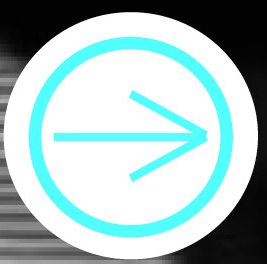
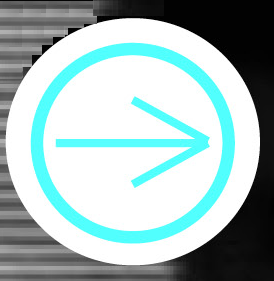
change of welcome page

diff --git a/flaskr/templates/layout.html b/flaskr/templates/layout.html
@@ -4,6 +4,10 @@
 	<title>RodBot</title>
 	<meta charset="utf-8">
 	<meta name="viewport" content="width=device-width, initial-scale=1">
+    <link rel="stylesheet" type="text/css" href="{{ url_for('static', filename='intro.css') }}">
+    <!--<script src="{{ url_for('static', filename='jquery.backgroundpos.min.js') }}"></script>
+    <script src="http://code.jquery.com/jquery-1.11.0.min.js"></script>
+    <script src="http://code.jquery.com/jquery-1.12.4.min.js"></script>-->
 	<link rel="stylesheet" href="http://maxcdn.bootstrapcdn.com/bootstrap/3.3.6/css/bootstrap.min.css">
 	<link rel=stylesheet type=text/css href="{{ url_for('static', filename='style.css') }}">
 	<link rel=stylesheet type=text/css href="{{ url_for('static', filename='reset.css') }}">
@@ -14,7 +18,6 @@
     <script src="{{ url_for('static', filename='typed.js') }}"></script>
     <script>
     $(function(){
-
         $("#typed").typed({
 
             stringsElement: $('#typed-strings'),
@@ -38,6 +41,15 @@
 
     function foo(){ console.log("Callback"); }
 
+    </script>
+     <script>
+    $(document).ready(function(){
+    	$(".user").show(1600,function(){
+    		$(".guy").show(1600,function(){
+    			$(".ready,.button").show(1600);
+    		});
+    	});
+    });
     </script>
 
 </head>

diff --git a/flaskr/static/intro.css b/flaskr/static/intro.css
@@ -1,0 +1,72 @@
+.back{
+	background-image: url("INTRO1.jpg");
+	width:350px;
+	height:620px;
+	background-size: 100% 98%;
+	margin-right: auto;
+	margin-left: auto;
+	margin-top:0px;
+	position:relative;
+}
+.type{
+	width:185px;
+	height:50px;
+	position:absolute;
+	right:42px;
+	top:56px;
+}
+#type{
+	font-family: Chalkduster;
+	font-size: 20px;
+	font-style: italic;
+}
+
+.user{
+	width:170px;
+	height:33px;
+	background-color:blue;
+	position: absolute;
+	right:22px;
+	top:200px;
+	color:white;
+	padding: 10px;
+	display: none;
+}
+
+.guy{
+	width:170px;
+	height:210px;
+	background-color:white;
+	position: absolute;
+	font-family: noteworthy;
+	right:120px;
+	top:257px;
+	padding: 10px;
+	display: none;
+}
+
+.ready{
+	width:170px;
+	height:72px;
+	background-color:white;
+	position: absolute;
+	font-family: noteworthy;
+	right:120px;
+	top:481px;
+	padding: 10px;
+	display: none;
+}
+
+.button{
+	width:55px;
+	height:55px;
+	background-image:url(/static/background1.jpeg);
+	position:absolute;
+	right:24px;
+	top:490px;
+	display: none;
+}
+
+div{
+	display: block;
+}

diff --git a/flaskr/templates/welcome.html b/flaskr/templates/welcome.html
@@ -1,8 +1,17 @@
 <!DOCTYPE html>
 {% extends "layout.html" %}
 {% block body %}
-<div class="welcome">
+<!--<div class="welcome">
     <div class="imgButton"><p> <a href="/home"> <img src="static/imageButton.png"> </a> </p></div>
+</div>-->
+<div class="back">
+    <div class="type"><p id="type">You've just crossed over to RodBot....</p></div>
+    <div class="user">What is RodBot?</div>
+    <div class="guy">I'm a story narrator and a fun guy who loves to spread joy and information through news articles. You can ask me to "tell you something funny" and I'll provide you with some funny news.</div>
+    <div class="ready">Click when you're ready to talk to me some more!!</div>
+    <div class="button">
+        <div class="imgButton"><p> <a href="/home"> <img src="static/imageButton.png"> </a> </p></div>
+    </div>
 </div>
 
 

diff --git a/flaskr/static/style.css b/flaskr/static/style.css
@@ -176,22 +176,22 @@ width:50px;
 }
 .imgButton{
   margin:auto auto;
-  margin-right:20px;
+  /*margin-right:20px;*/
   /*margin-top:120px;*/
   /*background:blue;
   position:relative;
   min-height:25px;
   margin-top:35px;
   padding:10px;*/
-  min-width:55px;
-  width:55px;
-  height:55px;
+  /*min-width:55px;*/
+  /*width:54px;
+  height:281px;*/
 }
 .imgButton img{
-  margin-top:350px;
-  min-width:55px;
-  width:55px;
-  height:55px;
+  /*margin-top:350px;*/
+  /*min-width:55px;*/
+  width:54px;
+  height:56px;
 }
 
 .container {

diff --git a/flaskr/templates/index.html b/flaskr/templates/index.html
@@ -16,7 +16,6 @@
 								eg. Type "Tell me something happy", and I will show you a happy story
 							</p>
           </div>
-
 		<span id="typed" ></span>
       </div>
     </li>

diff --git a/flaskr/flaskr.py b/flaskr/flaskr.py
@@ -36,7 +36,7 @@ status =  True
 with open('data.txt', 'r') as myfile:
     lexiconDict = myfile.read().replace('\n', '')
 lexiconDict = ast.literal_eval(lexiconDict)
-storyBoard = {'sadness': ['Hope you are not having a bad day. :(.  Coming with what you want.', 'Oh no there are so many heartbreaking stories...', "Here's one. I have my shoulder for you if you need it."], 'anticipation': ['I have something tantalizing for you!'], 'disgust': ['As you wish.', "I can't look at this one anymore...", "You're gonna hate me for this....But that's exactly what you want today right?"], 'positive': ["Got you! I'm sure I have something <>", "This one's pretty nice!", "Here's something <>. I'm sure you'll like it"], 'anger': ['Alright, now this may or may not be pretty upsetting. I am bad at finding negative stories.'], 'joy': ["Great! I'll help facilitate some happiness for you.", "Ahh... Here's something that'll bring you joy! Please enjoy. :)"], 'fear': ['Boy do I have something scary for you!', 'This should give you something to be afraid of.'], 'trust': ["Well, having trust in each other is always a good thing. I'll see if I can find an honorable story for you.", 'Trust trust trust, do you want to bulid trust with others?', 'Well here is something lighthearted at least. :)'], 'negative': ['Okay, seems you are having a really bad day, sorry for you.', "Don't worry, Rodbot can make you happy."], 'surprise': ["Hold on. I'll be right back with what you want.", '......zzz', "Surprise! Here's something that'll shock your mind."]}
+storyBoard = {'sadness': ['Hope you are not having a bad day. :(.  Coming with what you want.', 'Oh no there are so many heartbreaking stories...', "Here's one. I have my shoulder for you if you need it."], 'anticipation': ['I have something tantalizing for you!'], 'disgust': ['As you wish.', "I can't look at this one anymore...", "You're gonna hate me for this....But that's exactly what you want today right?"], 'positive': ["Got you! I'm sure I have something u want!", "This one's pretty nice!", "Here's it. I'm sure you'll like it"], 'anger': ['Alright, now this may or may not be pretty upsetting. I am bad at finding negative stories.'], 'joy': ["Great! I'll help facilitate some happiness for you.", "Ahh... Here's something that'll bring you joy! Please enjoy. :)"], 'fear': ['Boy do I have something scary for you!', 'This should give you something to be afraid of.'], 'trust': ["Well, having trust in each other is always a good thing. I'll see if I can find an honorable story for you.", 'Trust trust trust, do you want to bulid trust with others?', 'Well here is something lighthearted at least. :)'], 'negative': ['Okay, seems you are having a really bad day, sorry for you.', "Don't worry, Rodbot can make you happy."], 'surprise': ["Hold on. I'll be right back with what you want.", '......zzz', "Surprise! Here's something that'll shock your mind."]}
 #lexiconDict = json.dumps(lexiconDict)
 #lexiconDict = json.loads(lexiconDict)
 #print lexiconDict['happily']
